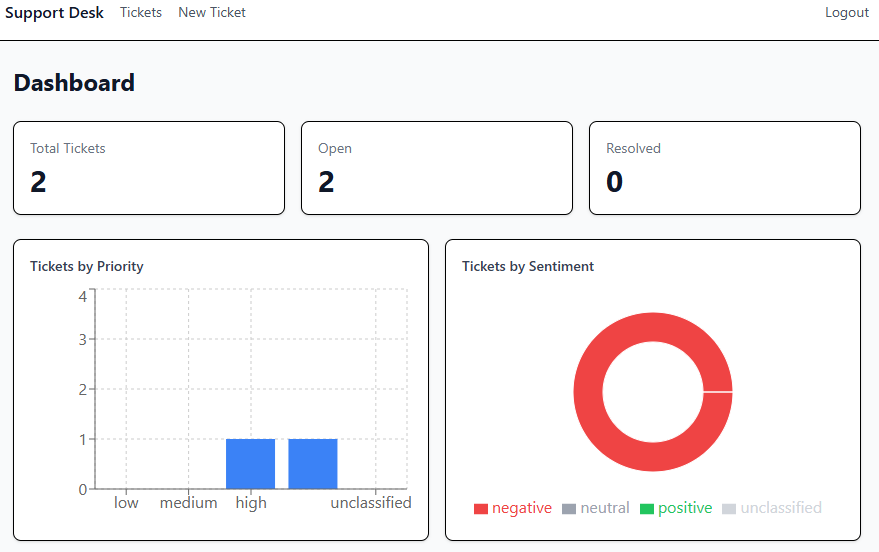
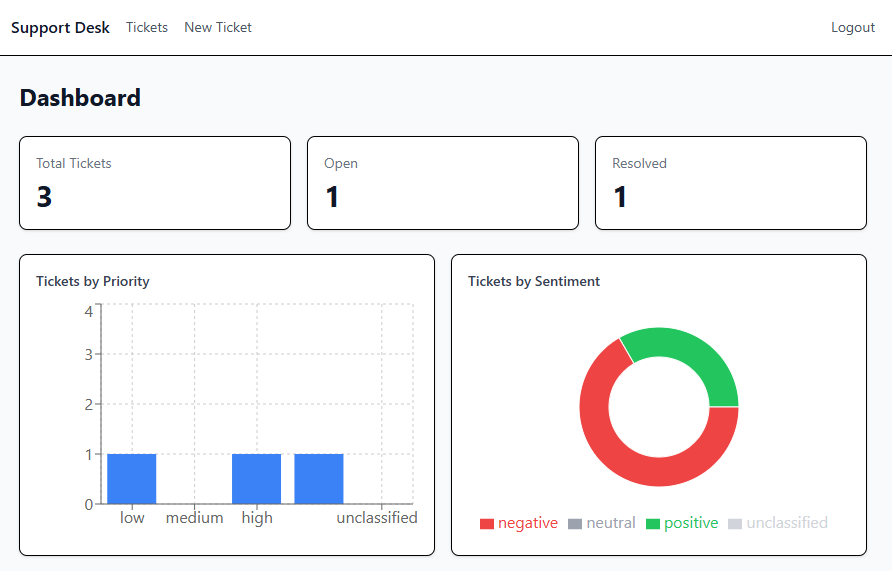
docs: refresh README screenshots; nginx no-cache for index.html
Feature the dashboard, ticket detail (AI + screenshot + status workflow), edit, login, and register screenshots. Drop the create-form shot. Serve index.html with no-cache and hashed assets with long cache so new frontend builds are picked up immediately.

diff --git a/README.md b/README.md
@@ -34,17 +34,19 @@ Per-user totals plus priority and sentiment breakdowns, rendered with Recharts.
 
 ![Dashboard](docs/dashboard.png)
 
-### Ticket list with AI analysis
-Each ticket shows its AI-assigned **priority** and **sentiment** the moment it is created.
+### Ticket detail
+AI analysis (summary, priority, sentiment), an attached screenshot, and an
+inline status workflow — with edit and delete actions.
 
-![Tickets](docs/tickets.png)
+![Ticket detail](docs/ticket-detail.png)
+
+### Edit a ticket
+Update the complaint text, or replace / remove the screenshot.
+
+![Edit ticket](docs/edit-ticket.png)
 
 <details>
-<summary>More screenshots — create ticket, login, register</summary>
-
-**Create a ticket**
-
-![New ticket](docs/new-ticket.png)
+<summary>More screenshots — sign in, create account</summary>
 
 **Sign in**
 